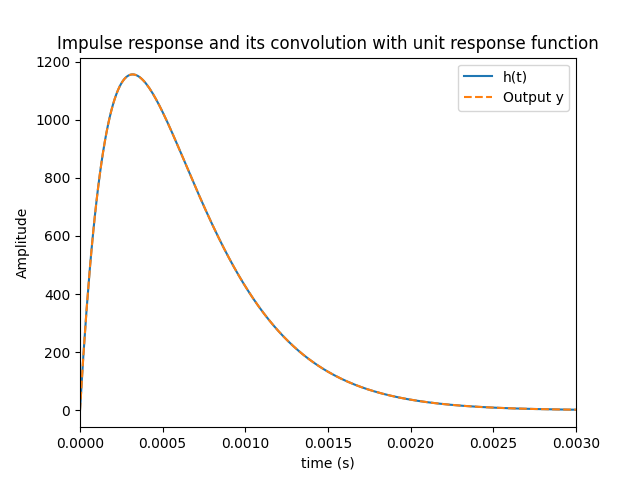
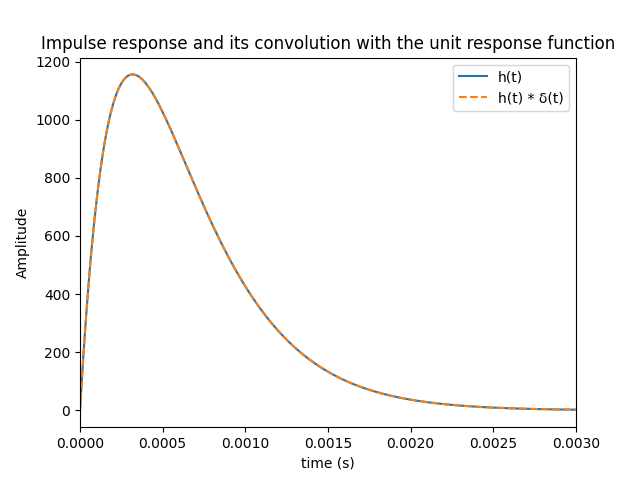
final label fixes

Changed region(s): [[0.0625, 0.0625, 0.9688, 0.2188], [0.6875, 0.1562, 0.7188, 0.2188]]

diff --git a/assignment1/task3.py b/assignment1/task3.py
@@ -43,22 +43,22 @@ fig, axs = plt.subplots(2, 2)
 fig.suptitle("Plot of the sinusoid signals x1 and x2 before and after convolution")
 
 axs[0, 0].plot(t, x1, label="x1")
-axs[0, 0].set_title('x1')
+axs[0, 0].set_title('input x1')
 axs[0, 0].set_xlim([0, 0.02])
 axs[0, 0].set_ylim([-1, 1])
 
-axs[0, 1].plot(t, y1, 'tab:orange', label="x1 convoluted")
-axs[0, 1].set_title('x1 convoluted')
+axs[0, 1].plot(t, y1, 'tab:orange', label="y1")
+axs[0, 1].set_title('output y1')
 axs[0, 1].set_xlim([0, 0.02])
 axs[0, 1].set_ylim([-1, 1])
 
 axs[1, 0].plot(t, x2, 'tab:green', label="x2")
-axs[1, 0].set_title('x2')
+axs[1, 0].set_title('input x2')
 axs[1, 0].set_xlim([0, 0.02])
 axs[1, 0].set_ylim([-1, 1])
 
-axs[1, 1].plot(t, y2, 'tab:red', label="x2 concoluted")
-axs[1, 1].set_title('x2 convoluted')
+axs[1, 1].plot(t, y2, 'tab:red', label="y2")
+axs[1, 1].set_title('output y2')
 axs[1, 1].set_xlim([0, 0.02])
 axs[1, 1].set_ylim([-1, 1])
 

diff --git a/assignment1/task1.py b/assignment1/task1.py
@@ -25,13 +25,13 @@ x2 = A * np.sin(f2 * 2 * np.pi * t)
 fig, (ax, ax2) = plt.subplots(1, 2)
 
 fig.suptitle("Plot of the sinusoid signals x1 and x2")
-ax.plot(t, x1, label="x1")
+ax.plot(t, x1, label="x1, sin(200π*t)")
 ax.set_xlabel("t (s)")
 ax.set_ylabel("Amplitude")
 ax.set_xlim([0, 0.01])
 ax.set_ylim([-1, 1])
 
-ax2.plot(t, x2, "tab:orange", label="x2")
+ax2.plot(t, x2, "tab:orange", label="x2, sin(2000π*t)")
 ax2.set_xlabel("t (s)")
 ax2.set_ylabel("Amplitude")
 ax2.set_xlim([0, 0.01])

diff --git a/assignment1/task2.py b/assignment1/task2.py
@@ -17,9 +17,9 @@ y = dt * signal.convolve(d, h, method="direct")
 y = y[0 : d.shape[0]]
 
 
-plt.title("Time-invariant (LTI) system with impulse response")
+plt.title("Impulse response and its convolution with the unit response function")
 plt.plot(t, h, label="h(t)")
-plt.plot(t, y, label="Output y", linestyle="--")
+plt.plot(t, y, label="h(t) * δ(t)", linestyle="--")
 plt.xlabel("time (s)")
 plt.ylabel("Amplitude")
 plt.legend()
